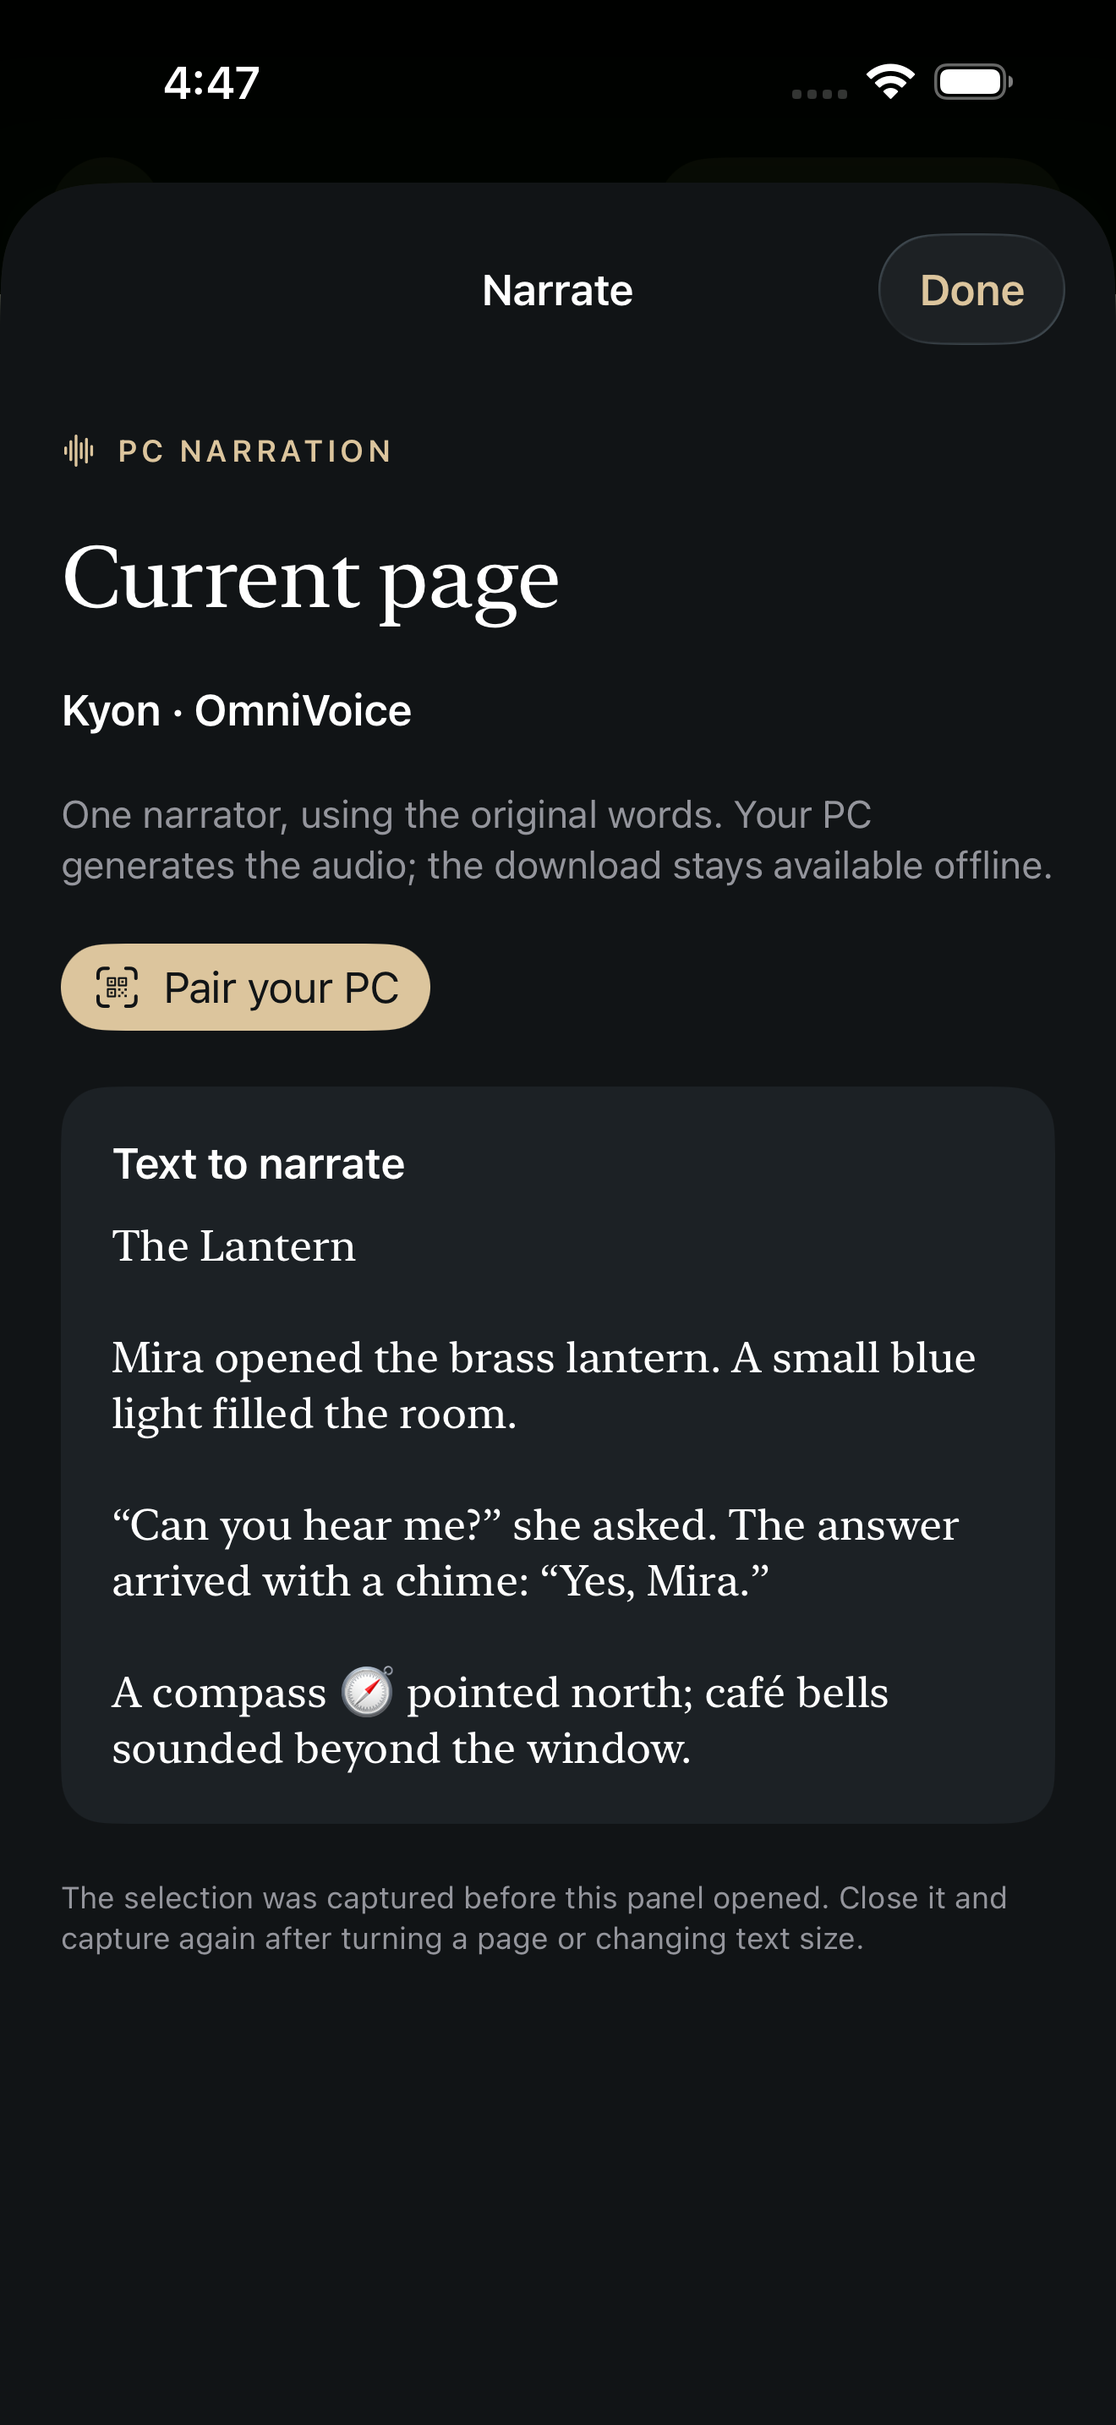
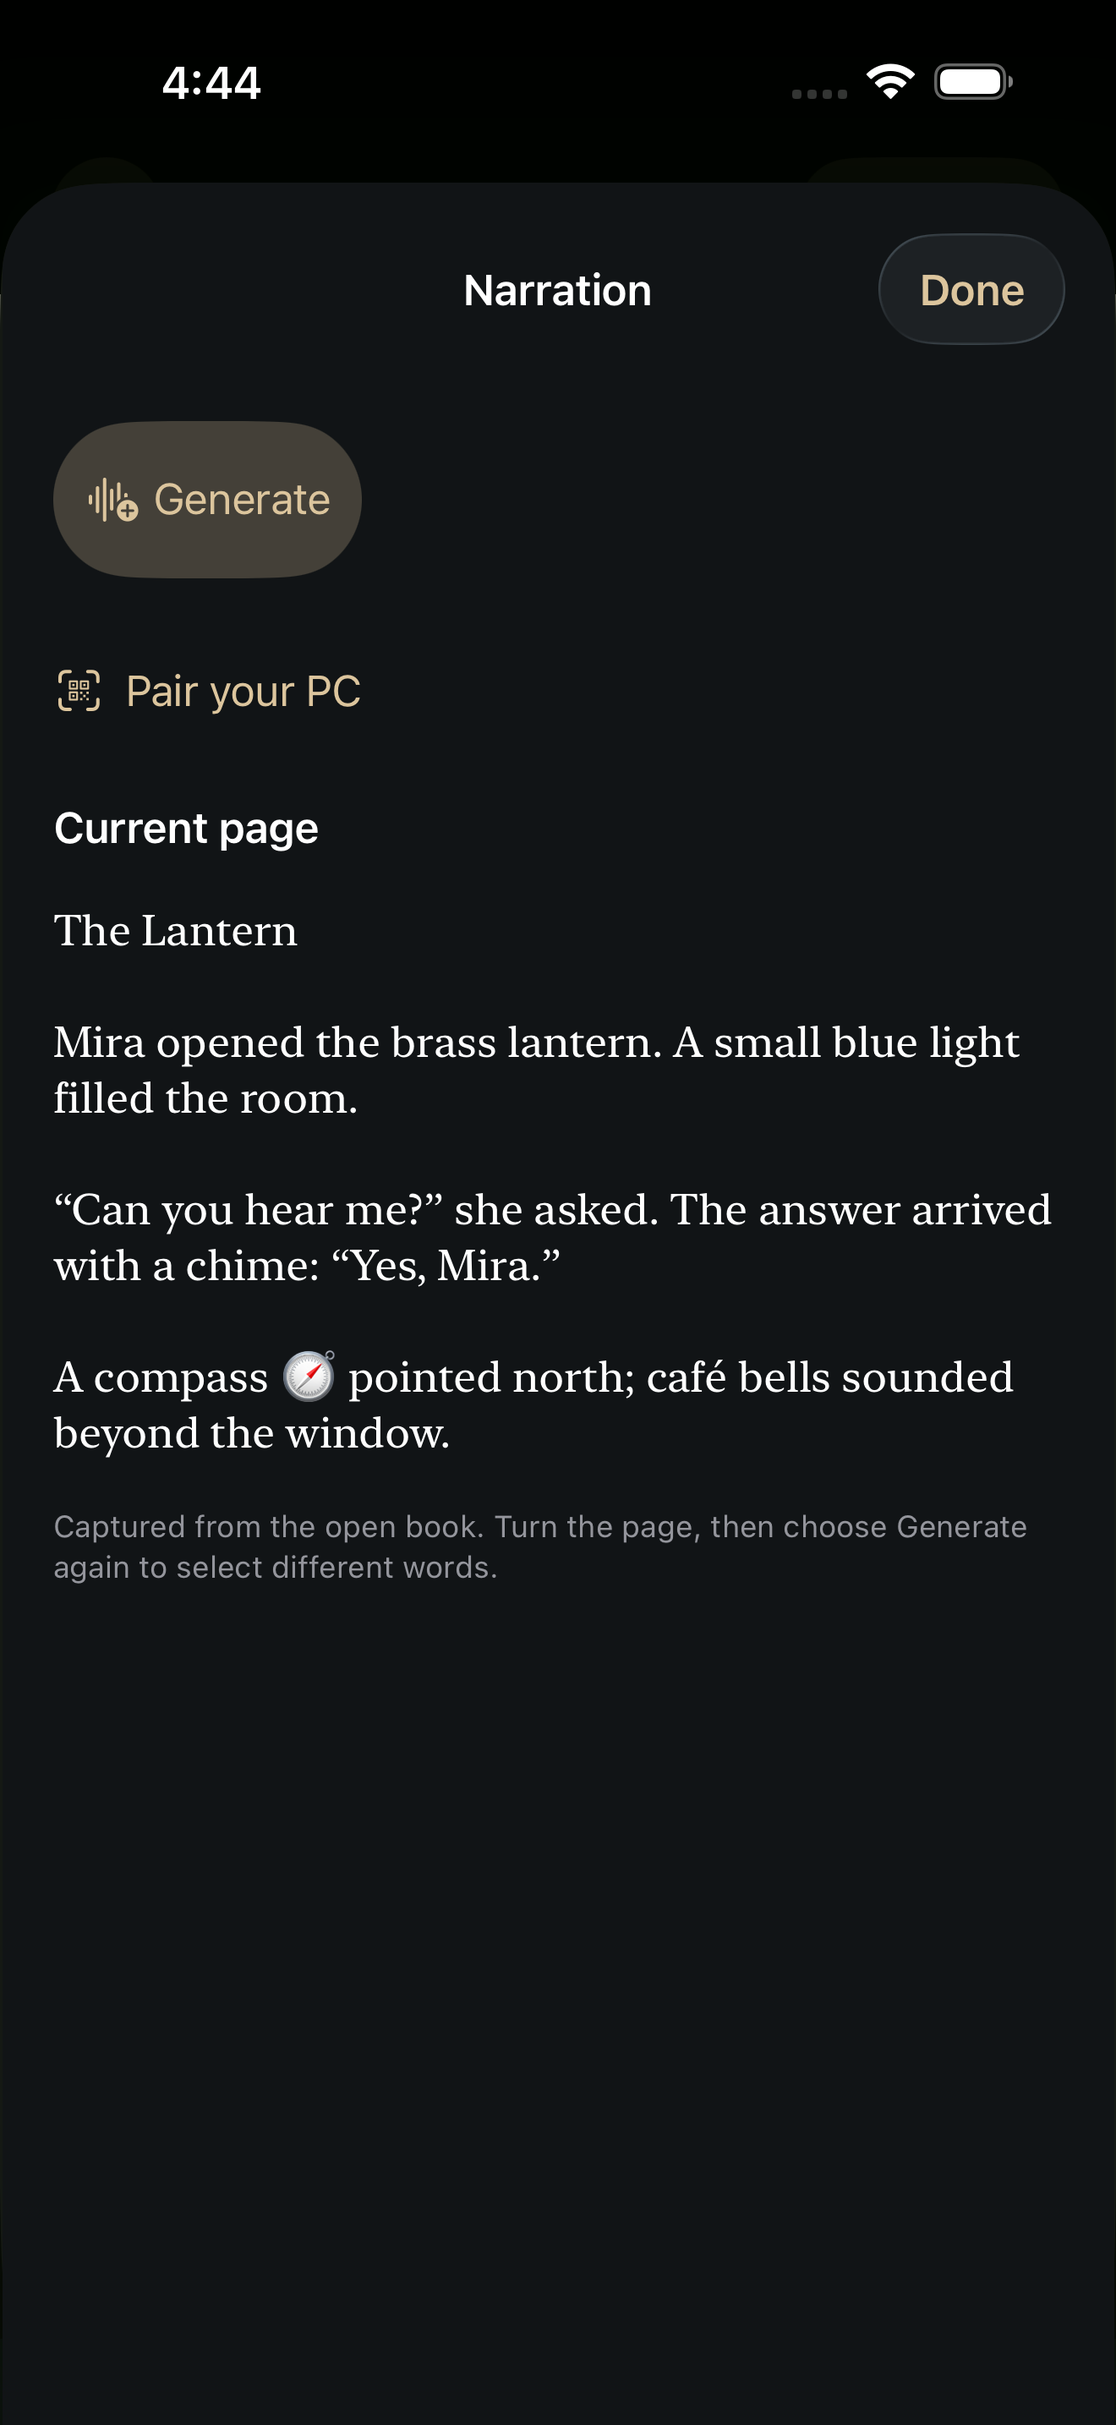
Document verified 0.1.10 reader player release and actual layouts

diff --git a/docs/VERIFICATION.md b/docs/VERIFICATION.md
@@ -7,7 +7,7 @@ Evidence current as of 2026-10-03. Deterministic fixtures, real speech synthesis
 | Boundary | Evidence and limits |
 | --- | --- |
 | Public source and fixtures | Public-source preflight passed. Original EPUB/text and non-speech WAV provenance is checked. EPUB ZIP metadata is fixed across Windows/Linux; shared contract fixture hashes regenerate with the source. |
-| Core tests | [Hosted checks at `d6943e4`](https://github.com/mahmud-karim/BookPocket-Open/actions/runs/37130852574): 202 Windows passes and 192 Linux passes plus ten explicit Windows-only skips, with downloaded XML reports confirming zero failures/errors. Authentication, expiry/reuse/revocation, source preservation, malformed and hostile EPUBs, Unicode scalar identities, idempotency conflicts, restart/retry, cache corruption, cancellation, exact utterance casting, preserved review edits, bounded archives, exports and duplicate-process ownership are covered. This includes independent exact-selection/ranged-cast cases, nine render-cleanup regressions covering actual process exit and file boundaries, two real muxer drift regressions, 22 timing-audit cases, durable analysis-request/response boundaries and shared heavy-work scheduling/setup process containment. Simulator selection tests reject unavailable, SDK-mismatched and duplicate compact devices. One upstream TestClient deprecation warning remains. |
+| Core tests | [Hosted checks at `7bf4e62`](https://github.com/mahmud-karim/BookPocket-Open/actions/runs/37137407661): 202 Windows passes and 192 Linux passes plus ten explicit Windows-only skips, with downloaded XML reports confirming zero failures/errors. Authentication, expiry/reuse/revocation, source preservation, malformed and hostile EPUBs, Unicode scalar identities, idempotency conflicts, restart/retry, cache corruption, cancellation, exact utterance casting, preserved review edits, bounded archives, exports and duplicate-process ownership are covered. This includes independent exact-selection/ranged-cast cases, nine render-cleanup regressions covering actual process exit and file boundaries, two real muxer drift regressions, 22 timing-audit cases, durable analysis-request/response boundaries and shared heavy-work scheduling/setup process containment. Simulator selection tests reject unavailable, SDK-mismatched and duplicate compact devices. One upstream TestClient deprecation warning remains. |
 | Pairing and API privacy | Local approval required; exchange is retryable; expired/reused codes fail; revocation prevents access. Tests cover protected source/media, loopback admin, browser origins and spoofed forwarding headers. Actual phone TLS-pinning verification remains pending. |
 | Original text and casting | Exact scalar ranges, overlap/bounds rejection and emoji offsets pass. Hosted analysis is rejected before any outbound request without explicit consent. Only a changed cast segment rerenders; unchanged segments reuse validated audio. Source text remains unchanged. These tests do not prove LLM speaker-attribution quality. |
 | Real Kokoro synthesis | Companion validation generated two segments: 6.925 seconds of speech in 12.141 seconds cold wall time. MP3, M4B and project exports succeeded with checksums. A separate pronunciation/alignment sample mapped “harbor” to spoken “harbour” while retaining eight original-text token ranges within offsets 0–43. |
@@ -51,6 +51,9 @@ The real cached MiMo 9B Q5_K_M local analyzer completed the eight-segment Lanter
 CI uses standard GitHub-hosted runners. Untrusted pull requests have no access to private credentials or the user's computer. Private local validation data and generated speech remain excluded from public source. The inspected screenshots in `docs/screenshots` use only original public fixtures and are included deliberately.
 
 ## Native and published release verification
+
+- Source `7bf4e62`: [native run 37137407663](https://github.com/mahmud-karim/BookPocket-Open/actions/runs/37137407663) passed 53 unit tests, seven iPhone 17 Pro Max UI tests, four compact iPhone SE UI tests, and the separate ARM64 iPhoneOS build. Downloaded logs confirm zero failures and each named compact test ran. The unified reader/player opens paused, offers explicit On-device/Kyon/Full cast choices, keeps unavailable PC playback disabled, asks page/chapter before exact capture, and separates matching offline narrator takes and chapters. Actual transport tests verify playback, seek/speed, native tabs and visibly painted manual chapter navigation while paused. A real PCM regression covers idle ticks, duplicate pause, explicit seek and resumed progress; delayed download tests cover stale autoplay. Earlier native popup coordinate mismatches were repaired with explicit panel buttons. Root inspected the [integrated player](screenshots/ios-reader-player.png), exact page preview, compact player, and largest-text player/scope choices in portrait and landscape. Transport fixtures are original non-speech tones, not Kyon or multi-speaker quality evidence.
[1 lines of base64/hex data omitted]
 
[1 lines of base64/hex data omitted]
 
@@ -96,7 +99,7 @@ CI uses standard GitHub-hosted runners. Untrusted pull requests have no access t
 - Companion 0.1.6 at `a37661b` passes 202 local Python tests plus 28 Studio tests, formatting and production build. [Hosted checks 37130085557](https://github.com/mahmud-karim/BookPocket-Open/actions/runs/37130085557) passed 202 Windows tests and 192 Linux tests plus ten explicit Windows-only skips; downloaded XML reports contain no failures or errors. Nineteen scheduler/setup tests exercise all rendering/analysis/install admission directions, paused and cancelled in-flight exclusion, fail-closed admission, same-ID recovery and harmless child/grandchild process-tree cancellation. Sixteen independent ranged-cast tests verify routed PCM, exact Unicode bounds and absolute timings, narrator-only full-cast identities, selective reuse, restart/retry, old request inference and portable archive corruption rejection. These fixtures prove boundaries, not speech quality.
[1 lines of base64/hex data omitted]
 - The production PC upgraded from actual Companion 0.1.5 to this checksum-verified 0.1.6 installer. Six protected file groups, original source, TLS/pairing identity, existing recording checksum and row hashes across all 14 existing metadata tables were preserved. Installed runtime, HTTP and saved-certificate-validated HTTPS all report 0.1.6 with source-range, ranged-cast and analysis-request recovery capabilities. The existing external VoiceStudio process was retained and uniquely named Kyon remains available.
-- A disposable paired-device check through the actual installed 0.1.6 runtime sent two exact original excerpts to the existing real OmniVoice Kyon profile with explicit full-cast mode. Two synthesis calls produced 5.52 seconds of speech. Original source bytes, absolute scalar timings, cast/mode metadata, authenticated checksums and complete FFmpeg decoding passed. Repeating the same request UUID returned the same job and assets with no additional synthesis calls. Temporary test data was removed and the production library was not used. This verifies a single real voice through the ranged-cast path, not multi-speaker quality or physical iPhone generation/playback. The new unified native reader/player remains pending its final hosted and device gates.
+- A disposable paired-device check through the actual installed 0.1.6 runtime sent two exact original excerpts to the existing real OmniVoice Kyon profile with explicit full-cast mode. Two synthesis calls produced 5.52 seconds of speech. Original source bytes, absolute scalar timings, cast/mode metadata, authenticated checksums and complete FFmpeg decoding passed. Repeating the same request UUID returned the same job and assets with no additional synthesis calls. Temporary test data was removed and the production library was not used. This verifies a single real voice through the ranged-cast path, not multi-speaker quality or physical iPhone generation/playback. The unified reader/player's final hosted and public-package gates passed as recorded above; physical iPhone checks remain open.
 
[2 lines of base64/hex data omitted]

diff --git a/README.md b/README.md
@@ -2,7 +2,7 @@
 
 A local-first EPUB reader and audiobook studio. Read on iPhone, generate narration on your Windows PC, and keep your original books and audio.
 
-**Development preview available:** [download the latest unsigned iOS IPA (0.1.8)](https://github.com/mahmud-karim/BookPocket-Open/releases/download/v0.1.8-preview.1/BookPocketOpen.ipa) and [the compatible Windows installer (0.1.4)](https://github.com/mahmud-karim/BookPocket-Open/releases/download/windows-v0.1.4-preview.1/BookPocketOpen-Setup-x64.exe). Published downloads were retrieved and checksum-verified; [iOS release notes](https://github.com/mahmud-karim/BookPocket-Open/releases/tag/v0.1.8-preview.1) and [Windows release notes and checksums](https://github.com/mahmud-karim/BookPocket-Open/releases/tag/windows-v0.1.4-preview.1) are available. Listen fits on one screen with a book-wide chapter selector, explicit downloaded takes and excerpts, and a downloads tray. Enlarged text also fits the empty Listen screen, and reader/mini-player buttons have corrected touch areas. Generate the current page or chapter with the PC's external OmniVoice Kyon profile directly from the reader, with actionable connection errors. Audio is verified immediately before playback, failed repairs cannot start corrupt recordings, and project imports preserve existing takes on failure. The companion reclaims verified abandoned render files when recovering from an interrupted worker and derives export chapter markers from actual audio frames. Cast edits survive arriving analysis results and reopening the editor within the same app session. See [the verification ledger](docs/VERIFICATION.md) for tested behavior and [the physical iPhone check](docs/DEVICE-CHECK.md) for the remaining device gates.
+**Development preview available:** [download the unsigned iPhone IPA (0.1.10)](https://github.com/mahmud-karim/BookPocket-Open/releases/download/v0.1.10-preview.1/BookPocketOpen.ipa) and [the compatible Windows installer (0.1.6)](https://github.com/mahmud-karim/BookPocket-Open/releases/download/windows-v0.1.6-preview.1/BookPocketOpen-Setup-x64.exe). Published downloads were retrieved and checksum-verified; [iPhone release notes](https://github.com/mahmud-karim/BookPocket-Open/releases/tag/v0.1.10-preview.1) and [Windows release notes](https://github.com/mahmud-karim/BookPocket-Open/releases/tag/windows-v0.1.6-preview.1) record their checks. Tap **Read aloud** in the reader to open its player and choose **On-device**, **Kyon**, or **Full cast**. PC voices require matching, verified downloaded audio before Play becomes available. **Generate** first asks for the current page or chapter, then previews the exact original words. Listen keeps its controls on one screen with chapter selection and explicit alternate takes. See [the verification ledger](docs/VERIFICATION.md) for tested behavior and [the physical iPhone check](docs/DEVICE-CHECK.md) for the remaining device gates.
 
 ## Obsidian in the actual app
 
@@ -11,13 +11,16 @@ Simulator screenshots show the original public test book. These are rendered app
 <p>
 <img src="docs/screenshots/ios-library.png" alt="Native Obsidian library" width="220">
 <img src="docs/screenshots/ios-reader.png" alt="Native cream EPUB reader" width="220">
-<img src="docs/screenshots/ios-page-narration.png" alt="Exact page narration preview with Kyon and OmniVoice" width="220">
+<img src="docs/screenshots/ios-reader-player.png" alt="Integrated reader player with verified offline Kyon take" width="220">
+<img src="docs/screenshots/ios-page-narration.png" alt="Exact current-page narration preview" width="220">
 <img src="docs/screenshots/ios-studio.png" alt="Native Obsidian audiobook studio" width="220">
 <img src="docs/screenshots/ios-playing-tabs.png" alt="Narration controls above accessible native tabs" width="220">
 <img src="docs/screenshots/ios-listen.png" alt="Fixed Listen player with chapter selection" width="220">
 </p>
 
-The narration screenshot uses an unpaired simulator. A paired phone exposes **Generate with Kyon** in this panel.
+The page preview uses an unpaired simulator. A paired phone exposes **Generate with Kyon** after selecting its scope. Offline player screenshots use explicitly labelled transport tones; these fixtures prove playback behavior, not narrator quality.
+
+The integrated player also fits a [compact iPhone](docs/screenshots/ios-reader-player-compact.png). Largest-text checks show [disabled playback](docs/screenshots/ios-reader-player-accessibility-compact.png), its [landscape layout](docs/screenshots/ios-reader-player-accessibility-compact-landscape.png), and the generation choices in [portrait](docs/screenshots/ios-reader-generate-accessibility-compact.png) and [landscape](docs/screenshots/ios-reader-generate-accessibility-compact-landscape.png).
 
 Listen keeps its player controls on one screen, with a chapter selector and a tray for downloaded recordings. The [compact portrait](docs/screenshots/ios-listen-compact.png) and [landscape](docs/screenshots/ios-listen-landscape.png) screenshots show the same controls on an iPhone SE simulator.
 
@@ -28,7 +31,8 @@ The [downloaded chapter panel](docs/screenshots/ios-chapter-takes.png) and [comp
 ## The experience
 
 - Native SwiftUI iOS reader using Readium: EPUB and text import, offline books, reading preferences, navigation, bookmarks, highlights, and Apple text-to-speech.
-- Generate the current visible page or table-of-contents chapter from the reader with the PC's external OmniVoice Kyon profile. Preview the exact source text, follow durable progress, and download finished narration for offline playback.
+- Read and listen together: open the compact player from **Read aloud**, choose On-device, Kyon or Full cast, then press Play. Missing PC audio keeps playback disabled; Generate asks for page or chapter before capturing the source. Full cast uses saved, reviewed narrator/character assignments and stays distinct from single-voice Kyon takes.
+- Preview the exact source text, follow durable PC generation, and download finished narration for offline playback. Pausing leaves manually chosen pages alone, and a late download cannot start after changing the selected narrator, take or page.
 - Listen without scrolling; choose chapters for on-device reading or browse downloaded chapter recordings across the book. Alternate takes and excerpts remain explicit choices. Keep playback speed, sleep timer and transport controls together.
 - Windows companion and an Obsidian desktop studio: local library, durable narration jobs, voice collection, device approval, and audio exports.
 - Managed Kokoro preset narration and Qwen3-TTS voice cloning, installed separately. Optional integration with an existing VoiceStudio service.

diff --git a/docs/DEVICE-CHECK.md b/docs/DEVICE-CHECK.md
@@ -20,7 +20,7 @@ With iOS 0.1.7 or later, export a short completed production as a project on the
 
 For the unified reader/player update, keep the paired PC and its external OmniVoice service running. Open a text page and tap **Read aloud**. Opening the panel and changing narrator must not start speech. Choose **On-device** and press Play; it should work without the PC. Pause it, then choose **Kyon**. With no matching downloaded take, playback must be disabled. Tap **Generate** → **Current page**. Compare the preview with the visible words, including a paragraph that continues onto the next screen. Generate with the uniquely named Kyon profile and confirm the downloaded result uses that voice and highlights the same source.
 
-Choose **Generate** → **Current chapter**, check the preview's start/end against Contents, and try a chapter containing an intervening illustration resource. Change text size, capture another page, and verify the new selection follows the reflowed page. Close and reopen the player while the PC generates; pause/resume and retry a failed job. Finished audio should download and play without duplicating completed passages. A downloaded chapter should be available from the pages it covers, while a page excerpt must not enable an unrelated page. In airplane mode, reopen the player and confirm matching downloaded narration still works.
+Choose **Generate** → **Current chapter**, check the preview's start/end against Contents, and try a chapter containing an intervening illustration resource. Change text size, capture another page, and verify the new selection follows the reflowed page. Close and reopen the player while the PC generates; pause/resume and retry a failed job. Finished audio should download and play without duplicating completed passages. Pause a downloaded take, manually open another chapter, and confirm the reader stays there, including after a repeated pause or audio interruption. A downloaded chapter should be available from the pages it covers, while a page excerpt must not enable an unrelated page. In airplane mode, reopen the player and confirm matching downloaded narration still works.
 
 Choose **Full cast**. Kyon-only audio must not enable its playback. Without a saved reviewed cast, open **Set up cast**, choose its narrator and character voices, review the dialogue and save. Generate a page that cuts through a reviewed assignment; audio must contain only the captured words and use the selected cast inside that range. Generate a narrator-only page as Full cast too; its take must remain distinct from Kyon. Verify the chapter selector and explicit alternate takes, another book's exclusion, and disabled playback when audio is missing or corrupt. Check the compact player in portrait, landscape and the largest accessibility text size without scrolling its controls; long previews and cast details may open separately.
 
